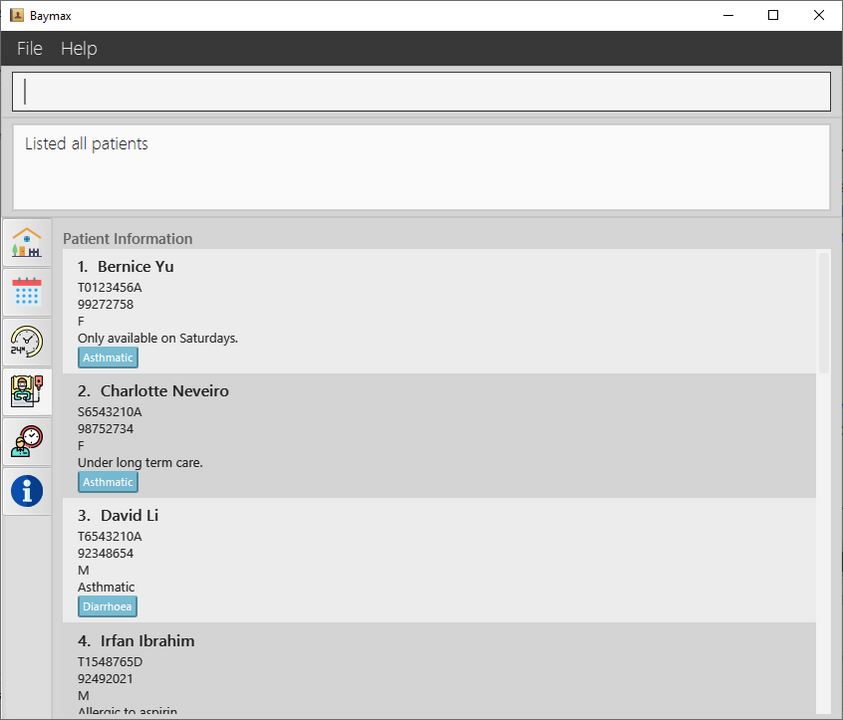
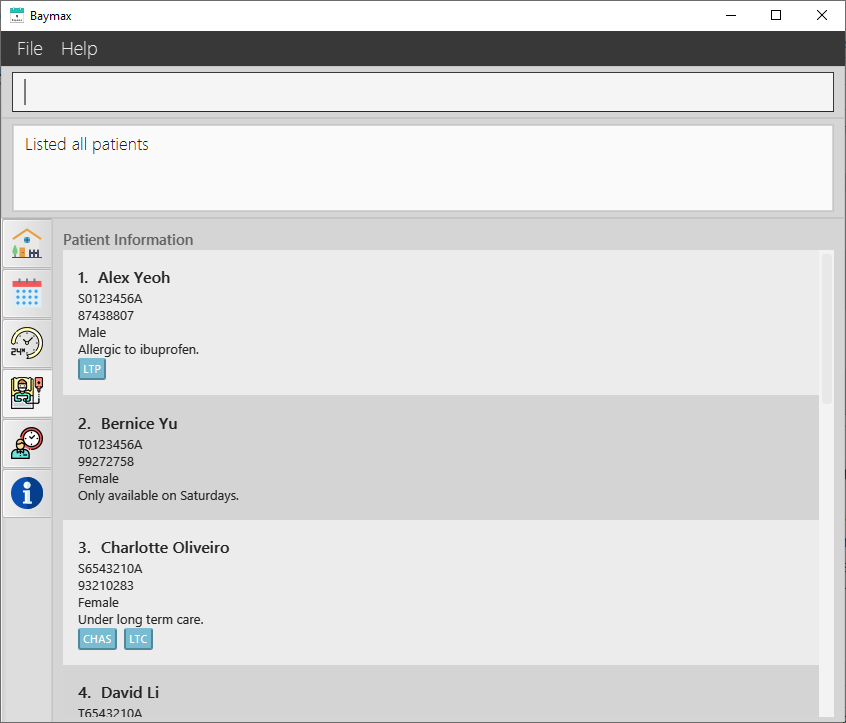
Update screenshots

diff --git a/docs/UserGuide.md b/docs/UserGuide.md
@@ -22,7 +22,7 @@ title: Baymax - User Guide
     &nbsp;&nbsp;&nbsp;&nbsp;&nbsp;&nbsp;5.1.6. [Add a remark to a patient: `remark`](#516-add-a-remark-to-a-patient-remark)<br>
     5.2. [Appointment Management](#52-appointment-management)<br>
     &nbsp;&nbsp;&nbsp;&nbsp;&nbsp;&nbsp;5.2.1. [Add a new appointment: `addappt`](#521-add-a-new-appointment-addappt)<br>
-    &nbsp;&nbsp;&nbsp;&nbsp;&nbsp;&nbsp;5.2.2. [List all appointments of a patient: `listapptof`](#522-list-all-appointments-of-a-patient-listapptof)<br>
+    &nbsp;&nbsp;&nbsp;&nbsp;&nbsp;&nbsp;5.2.2. [List all appointments of a patient: `listapptsof`](#522-list-all-appointments-of-a-patient-listapptsof)<br>
     &nbsp;&nbsp;&nbsp;&nbsp;&nbsp;&nbsp;5.2.3. [List all appointments: `listappts`](#523-list-all-appointments-listappts)<br>
     &nbsp;&nbsp;&nbsp;&nbsp;&nbsp;&nbsp;5.2.4. [Edit an appointment: `editappt`](#524-edit-an-appointment-editappt)<br>
     &nbsp;&nbsp;&nbsp;&nbsp;&nbsp;&nbsp;5.2.5. [Cancel an appointment: `cancel`](#525-cancel-an-appointment-cancel)<br>
@@ -238,7 +238,7 @@ REMARK        | Any remarks about the patient. It can be any text -- alphanumeri
 TAG           | The tag for the patient. It must only be <ins>alphanumerical</ins> and must not contain spaces or special characters. Can have multiple tags. E.g. Diabetic, Asthmatic
 
 **Example:**<br>
-1. Type `addpatient nric/S9772234F name/Jason Tan phone/98765432 gender/M` into the command box.
+1. Type `addpatient nric/S9772234F name/Jason Tan phone/98765432 gender/M tag/Asthmatic` into the command box.
 2. Press `Enter` on your keyboard.
 
 **Outcome:**
@@ -253,7 +253,7 @@ If the command is valid (i.e. the user keyed in the valid fields):
 In the case where the command entered is invalid (e.g `NRIC` has 8 numbers in the middle):
 1. An invalid command message will be displayed in the *Command Result* box, specifying which field was entered incorrectly. <br>
 
-    ![invalidnric](images/invalidNRIC.png)<br>
+    ![invalidnric](images/addpatientinvalidnric.png)<br>
     *Figure 5.1.1b. Adding a patient - failure*
 
 **Note:**
@@ -299,22 +299,22 @@ Parameter Name | Description
 INDEX     | The index of the patient in the most recently displayed list. It must be a <ins>positive</ins> integer.
 
 **Example:**<br>
-1. Type `deletepatient 1` into the command box.
+1. Type `deletepatient 8` into the command box.
 2. Press `Enter` on your keyboard.
 
 **Outcome:**
 
-If the `INDEX` (i.e 1) is valid:
+If the `INDEX` (i.e 8) is valid:
 1. A success message will be displayed as shown below.
-2. The patient at index 1 in the previously displayed list will be deleted.
+2. The patient at index 8 in the previously displayed list will be deleted.
 
-    ![deletepatient](images/deletepatientsuccess.png)<br>
+    ![deletepatient](images/deletepatient.png)<br>
     *Figure 5.1.3a. Deleting a patient - success*
 
-In the case where the `INDEX` is invalid (E.g `deletepatient 11` is entered, but there are only 8 patients):
+In the case where the `INDEX` is invalid (E.g `deletepatient 11` is entered, but there are only 9 patients):
 1. "**Invalid patient index**" message will be displayed as shown below.
 
-    ![invaliddelete](images/invaliddeletepatient.png)<br>
+    ![invaliddelete](images/deletepatientfailure.png)<br>
     *Figure 5.1.3b. Deleting a patient - failure*
     
 #### 5.1.4. Edit a patient's information: `editpatient`
@@ -357,15 +357,18 @@ TAG     | The tag for the patient. It must only be <ins>alphanumerical</ins> and
 If the `INDEX` (i.e 2) is valid:
 1. A success message will be displayed as shown below.
 2. The tag of the patient at index 2 in the recent list will be edited.
-
-    ![editpatient](images/editpatientsuccess.png)<br>
+    
+    ![beforeedit](images/beforeeditpatient.png)<br>
+    *Figure . Before editing a patient's tag*
+    
+    ![editpatient](images/aftereditpatient.png)<br>
     *Figure 5.1.4a. Editing a patient's information - success*
     
 In the case where the field to be edited is absent (E.g `editpatient 3` is entered):
 
 1. A message prompting the user to provide at least 1 field to edit will be displayed as shown below.
 
-    ![editfailure](images/editpatientmissingfield.png)<br>
+    ![editfailure](images/editpatientfailure.png)<br>
     *Figure 5.1.4b. Editing a patient's information - failure*
 
 **Note:** 
@@ -401,7 +404,7 @@ NAME_KEYWORD   | The name or keyword by which to search for the patient. It can 
     
 2. If patient is not found, then none will be displayed as shown below.
     
-    ![findpatient](images/findPatientFailure.png)<br>
+    ![findpatient](images/findpatientfailure.png)<br>
     *Figure 5.1.5b. Finding a patient by name - failure*
     
 #### 5.1.6. Add a remark to a patient: `remark`
@@ -418,20 +421,23 @@ INDEX     | The index of the patient in the most recently displayed list. It mus
 REMARK         | The remark to be added to the patient.
 
 **Example:**<br>
-1. Type `remark 2 r/Allergic to penicillin` into the command box.
+1. Type `remark 6 r/Allergic to penicillin` into the command box.
 2. Press `Enter` on your keyboard.
 
 **Outcome:**
 
 1. If the INDEX entered is valid, a success message will be displayed as shown below.
-
-    ![remark](images/remarkSuccessOutput.png)<br>
-    *Figure 5.1.6a. Adding a remark to a patient - success*
+    
+    ![remark](images/beforeremark.png)<br>
+    *Figure 5.1.6a. Before adding a remark to a patient.*
+    
+    ![remark](images/afterremark.png)<br>
+    *Figure 5.1.6b. Adding a remark to a patient - success*
     
 2. If the INDEX entered is invalid (either beyond the list or negative), an error message will be displayed as shown below.
     
-    ![remark](images/remarkFailureOutput.png)<br>
-    *Figure 5.1.6b. Adding a remark to a patient - failure*
+    ![remark](images/remarkfailure.png)<br>
+    *Figure 5.1.6c. Adding a remark to a patient - failure*
 
 **Note:**
 
@@ -492,7 +498,7 @@ DURATION       | The <ins>integer</ins> duration of the appointment in minutes, 
 2. Either `DATETIME` or `TIME` should be provided. If both are provided, only the `DATETIME` will be accepted.
 
 **Example:**<br>
-1. Type `addappt 1 on/11-10-2020 12:30 dur/60 desc/Removal of braces. tag/DrGoh` into the command box.
+1. Type `addappt 1 on/11-11-2020 12:30 dur/60 desc/Removal of braces. tag/Dental` into the command box.
 2. Press `Enter` on your keyboard.
 
 **Outcome:**
@@ -500,18 +506,18 @@ DURATION       | The <ins>integer</ins> duration of the appointment in minutes, 
 If the command is valid (i.e. the user keyed in the valid fields):
 1. A success message will be displayed as shown below. <br>
 
-    ![addappt](images/addappt.png)<br>
+    ![addappt](images/addapptsuccess.png)<br>
     *Figure 5.2.1a. Scheduling a new appointment for a patient*
 
-#### 5.2.2. List all appointments of a patient: `listapptof`
+#### 5.2.2. List all appointments of a patient: `listapptsof`
 You can use this command to list all the appointments belonging to a certain patient.
 However, you will first need to use the `listpatients` command to 
 find out the patient’s `INDEX`. 
 
 **Format:**<br>
-`listapptof INDEX`<br>
-`listapptof nric/NRIC`<br>
-`listapptof name/NAME`<br>
+`listapptsof INDEX`<br>
+`listapptsof nric/NRIC`<br>
+`listapptsof name/NAME`<br>
 
 **Parameters:**
 
@@ -522,14 +528,14 @@ NRIC           | The nric of the patient.
 NAME           | The name by which to search for the patient. It can be an incomplete part of the patient's name. E.g. Alice
 
 **Example:**<br>
-1. Type `listapptof 1` into the command box.
+1. Type `listapptsof 1` into the command box.
 2. Press `Enter` on your keyboard.
 
 **Outcome:**
 
 1. All appointments associated with the patient will be displayed as shown below.
 
-    ![listapptof](images/listApptOf.png)<br>
+    ![listapptsof](images/listapptofsuccess.png)<br>
     *Figure 5.2.2a. Listing the appointments of a patient*
 
 #### 5.2.3. List all appointments: `listappts`
@@ -551,7 +557,7 @@ The appointments in the `listappts` view are **not** sorted by date or time. The
 
 1. All the appointments in the system will be listed as shown below.
 
-    ![listappts](images/listappts.png)<br>
+    ![listappts](images/listapptssuccess.png)<br>
     *Figure 5.2.3a. Listing all appointments*
 
 #### 5.2.4. Edit an appointment: `editappt`
@@ -581,17 +587,20 @@ TAG            | The tag related to the appointment. It must only be <ins>alphan
 DURATION       | The <ins>integer</ins> duration of the appointment in minutes, not spanning more than <ins>one</ins> day and must <ins>not</ins> extend to the next day. <br> E.g. <br> 1. A new appointment at 23:58 can have maximum duration of 1 minute. <br> 2. An appointment at 00:00 can have a maximum duration of 1439 minutes.
 
 **Example:**<br>
-1. Type `editappt 6 on/12-10-2020 12:00` into the command box.
+1. Type `editappt 11 on/12-10-2020 12:00` into the command box.
 2. Press `Enter` on your keyboard.
 
 **Outcome:**
 
-If the INDEX (i.e 6) is valid:
+If the INDEX (i.e 11) is valid:
 1. A success message will be displayed as shown below.
-2. The `DATETIME` of the appointment at index 6 in the recent list will be edited.
-
-    ![editappt](images/editappt.png)<br>
-    *Figure 5.2.4a. Editing an appointment*
+2. The `DATETIME` of the appointment at index 11 in the recent list will be edited.
+    
+    ![editappt](images/beforeeditappt.png)<br>
+    *Figure 5.2.4a. Before editing an appointment*
+    
+    ![editappt](images/aftereditappt.png)<br>
+    *Figure 5.2.4b. Editing an appointment*
 
 **Note:**
 
@@ -621,7 +630,7 @@ Method 1:
 2. Press `Enter` on your keyboard.
 
 Method 2:
-1. Type `cancel on/12-10-2020 12:00 name/Chin` into the command box.
+1. Type `cancel on/12-10-2020 12:00 name/Jackson` into the command box.
 2. Press `Enter` on your keyboard.
 
 **Warning:**
@@ -633,9 +642,12 @@ Method 2 is for convenience only. Use this method only if you are sure that ther
 If the command is valid (i.e. the specified appointment exists):
 1. A success message will be displayed as shown below.
 2. The appointment specified will be removed.
-
-    ![cancelappt](images/cancelAppt.png)<br>
-    *Figure 5.2.5a. Cancelling an appointment*
+    
+    ![cancelappt](images/beforecancel.png)<br>
+    *Figure 5.2.5a. Before cancelling an appointment*
+    
+    ![cancelappt](images/aftercancel.png)<br>
+    *Figure 5.2.5b. Cancelling an appointment*
 
 #### 5.2.6. Mark an appointment as done: `done`
 You can use this command to mark an appointment within the system as done either by specifying `INDEX` of the appointment, or the `DATETIME` of the appointment with the `NAME` of the patient.
@@ -654,11 +666,11 @@ DATETIME       | The date followed by the time of the appointment. It must be in
 
 **Example:**<br>
 Method 1:
-1. Type `done 2` into the command box. (Currently, the appointment at Index 2 is Irfan's appointment).
+1. Type `done 7` into the command box.
 2. Press `Enter` on your keyboard.
 
 Method 2:
-1. Type `done on/04-11-2020 20:00 name/Irfan` into the command box.
+1. Type `done on/09-11-2020 13:15 name/Roger` into the command box.
 2. Press `Enter` on your keyboard.
 
 **Warning:**
@@ -670,9 +682,12 @@ Method 2 is for convenience only. Use this method only if you are sure there is 
 If the command is valid (i.e. the specified appointment exists):
 1. A success message will be displayed as shown below.
 2. The appointment specified will be marked as done.
-
-    ![markapptdone](images/markApptDone.png)<br>
-    *Figure 5.2.6a. Marking an appointment as done*
+    
+    ![markapptdone](images/beforedone.png)<br>
+    Figure 5.2.6a. Before marking an appointment as done*
+    
+    ![markapptdone](images/afterdone.png)<br>
+    *Figure 5.2.6b. Marking an appointment as done*
    
 **Note:**
 
@@ -697,11 +712,11 @@ DATETIME       | The date followed by the time of the appointment. It must be in
 
 **Example:**<br>
 Method 1:
-1. Type `missed 1` into the command box. (Currently, the appointment at Index 1 is Calvini's appointment).
+1. Type `missed 7` into the command box. (Currently, the appointment at Index 1 is Calvini's appointment).
 2. Press `Enter` on your keyboard.
 
 Method 2:
-1. Type `missed on/31-10-2020 13:30 name/Calvini` into the command box.
+1. Type `missed on/09-11-2020 13:15 name/Roger` into the command box.
 2. Press `Enter` on your keyboard.
 
 **Warning:**
@@ -713,9 +728,12 @@ Method 2 is for convenience only. Use this method only if you are sure that ther
 If the command is valid (i.e. the specified appointment exists):
 1. A success message will be displayed as shown below.
 2. The appointment specified will be marked as missed.
-
-    ![markapptmissed](images/markapptmissed.png)<br>
-    *Figure 5.2.7a. Marking an appointment as missed*
+    
+    ![missed](images/beforemissed.png)<br>
+    *Figure 5.2.7a. Before marking an appointment as missed*
+    
+    ![markapptmissed](images/aftermissed.png)<br>
+    *Figure 5.2.7b. Marking an appointment as missed*
 
 **Note:**
 
@@ -745,7 +763,7 @@ TAG_KEYWORD           | The keyword by which to search for the appointment. It c
 
 1. If the appointment is found, a success message will be displayed as shown below.
 
-    ![findappt](images/findapptbydesc.png)<br>
+    ![findappt](images/findapptsuccess.png)<br>
     *Figure 5.2.8a. Finding an appointment by description*
 
 **Example:**<br>
@@ -756,7 +774,7 @@ TAG_KEYWORD           | The keyword by which to search for the appointment. It c
    
 1. If appointment is found, a succcess message will be displayed as shown below.
     
-    ![findappt](images/findapptbytag.png)<br>
+    ![findappt](images/findapptbytagsuccess.png)<br>
     *Figure 5.2.8b. Finding an appointment by tag*
     
 -------------------------------------------------------------------------------
@@ -793,7 +811,7 @@ YEAR          | The year you want to switch to. It must be a <ins>4-digit positi
 1. Baymax will switch to the calendar tab.
 2. The year 2019 will be displayed on the top of the window together with the currently selected month.
 
-    ![changeyear](images/changeYear.png)<br>
+    ![changeyear](images/year2019.png)<br>
     *Figure 5.3.1a Changing the year to 2019*
 
 #### 5.3.2. Switch to a particular month: `month`
@@ -812,7 +830,7 @@ MONTH          | The month you want to switch to. It must be a <ins>positive</in
 
 **Example:**<br>
 
-1. Type `year 2020` into the command box and press Enter to switch to the year 2020.
+1. Type `year 2019` into the command box and press Enter to switch to the year 2020.
 2. Type `month 9` or `month september` or `month sep` into the command box.
 3. Press Enter on your keyboard.
 
@@ -820,7 +838,7 @@ MONTH          | The month you want to switch to. It must be a <ins>positive</in
 
 1. The month will be set to September.
 
-    ![changemonth](images/changeMonth.png)<br>
+    ![changemonth](images/month9.png)<br>
     *Figure 5.3.2a. Changing the month to September*
 
 #### 5.3.3. Switch to a particular day: `day`
@@ -836,14 +854,14 @@ DAY            | The day of the month you want to switch to. It must be a <ins>p
 **Example:**<br>
 1. Type `year 2020` into the command box and press Enter to switch to the year 2020.
 2. Type `month 11` into the command box and press enter to switch to the month October.
-3. Type `day 4` into the command box.
+3. Type `day 9` into the command box.
 4. Press Enter on your keyboard.
 
 **Outcome:**<br>
-1. The day 04-11-2020 will be selected.
+1. The day 09-11-2020 will be selected.
 
-    ![changeday](images/scheduleview.png)<br>
-    *Figure 5.3.3a. Viewing the schedule on the 4th November 2020*
+    ![changeday](images/day9.png)<br>
+    *Figure 5.3.3a. Viewing the schedule on the 9th November 2020*
     
 ----------------------------------------------------------------------------------
 
@@ -956,7 +974,7 @@ Add a Remark: `remark INDEX r/REMARK` | `remark 2 r/Not free on Fridays`
 **Command**             | **Example**
 ------------------------|--------------------
 Add an Appointment: `addappt INDEX on/DATETIME dur/DURATION desc/DESCRIPTION [tag/TAG]` OR `addappt nric/NRIC on/DATETIME dur/DURATION desc/DESCRIPTION [tag/TAG]` | `addappt nric/S1234567C on/11-10-2020 12:30 dur/60 desc/Removal of braces. tag/DrGoh tag/1HR`
-List Appointments of a Patient: `listapptof INDEX` | `listapptof 1`
+List Appointments of a Patient: `listapptsof INDEX` | `listapptsof 1`
 List all Appointments: `listappts` | `listappts`
 Edit an Appointment: `editappt INDEX <at least 1 appointment information parameter>` | `editappt 1 on/12-10-2020 12:00`
 Cancel an Appointment: `cancel INDEX` OR `cancel on/DATETIME name/NAME` | `cancel on/20-01-2020 15:00 name/Alex `
